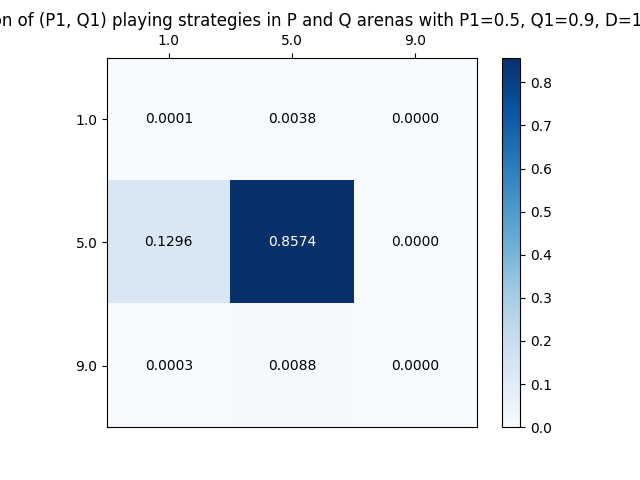
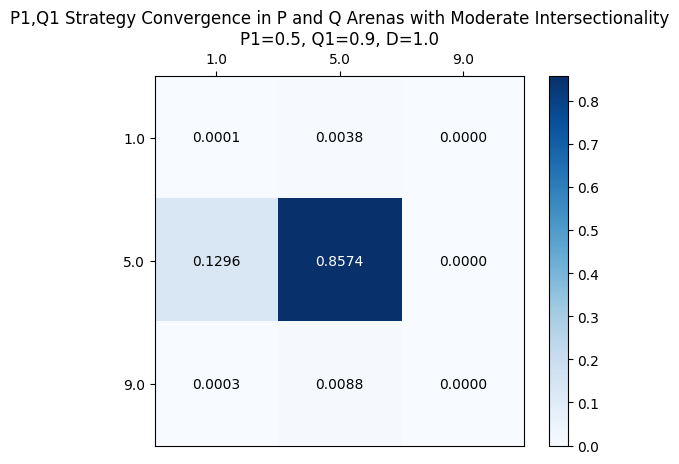
Updated image titles

diff --git a/src/main/python3/viz.py b/src/main/python3/viz.py
@@ -96,8 +96,7 @@ class EGTResult:
         :param at: Where to write the png file to
         """
         labels = [str(strategy) for strategy in self.strategies]
-        title = "Proportion of (P1, Q1) playing strategies in P and Q arenas with " \
-            f"P1={self.p1}, Q1={self.q1}, D={self.d}"
+        title = f"P1,Q1 Strategy Convergence in P and Q Arenas with {self.simulation} Intersectionality\nP1={self.p1}, Q1={self.q1}, D={self.d}"
 
         fig, ax = plt.subplots()
         ax.imshow(self.result_matrix)
@@ -125,10 +124,11 @@ class EGTResult:
                 ax.text(j, i, label, ha="center", va="center", color=color)
 
         plt.title(title)
+        # plt.suptitle(subtitle)
         plt.colorbar(heatmap)
         # plt.show()
         # The name of the figure is the name of the parsed data file, and can be found at location at.
-        plt.savefig(f"{at}/{self.input_file.split('/')[-1].split('.')[0]}.png")
+        plt.savefig(f"{at}/{self.input_file.split('/')[-1].split('.')[0]}.png", bbox_inches='tight')
 
 
 if __name__ == '__main__':
